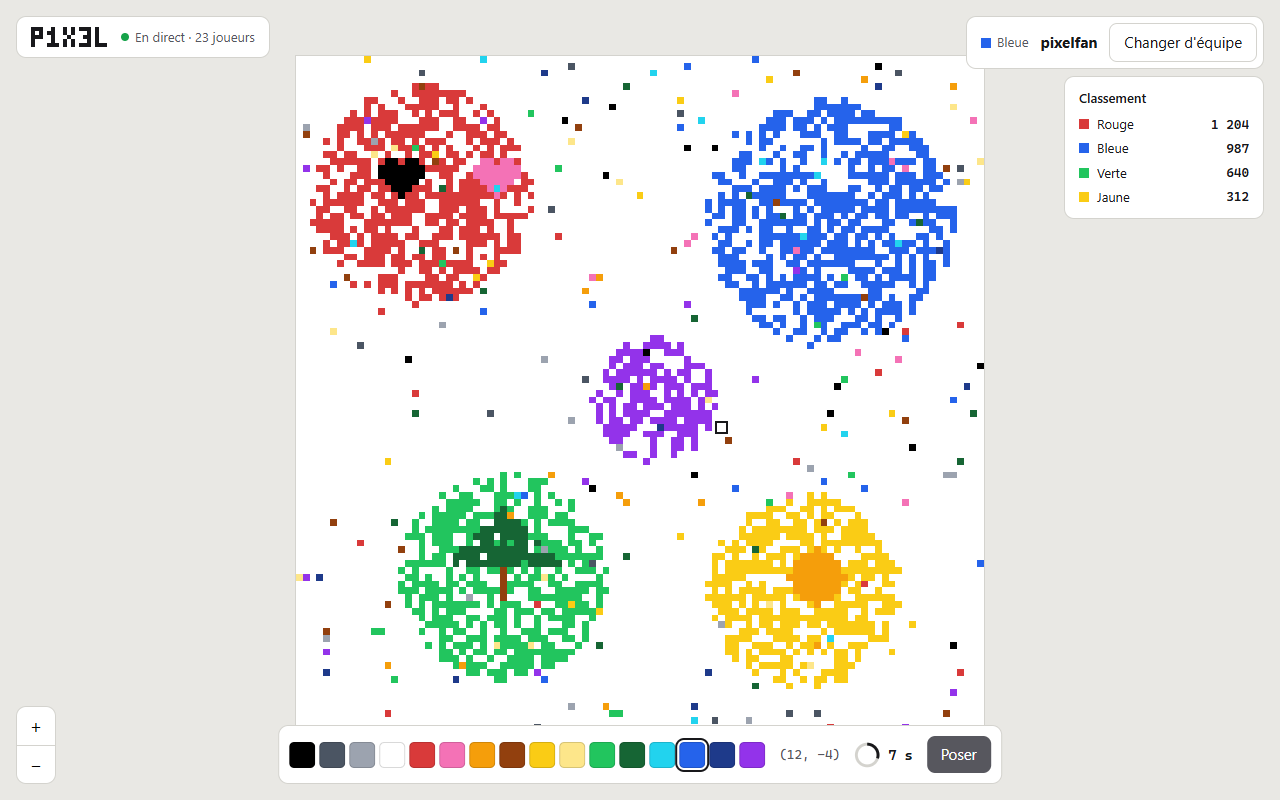
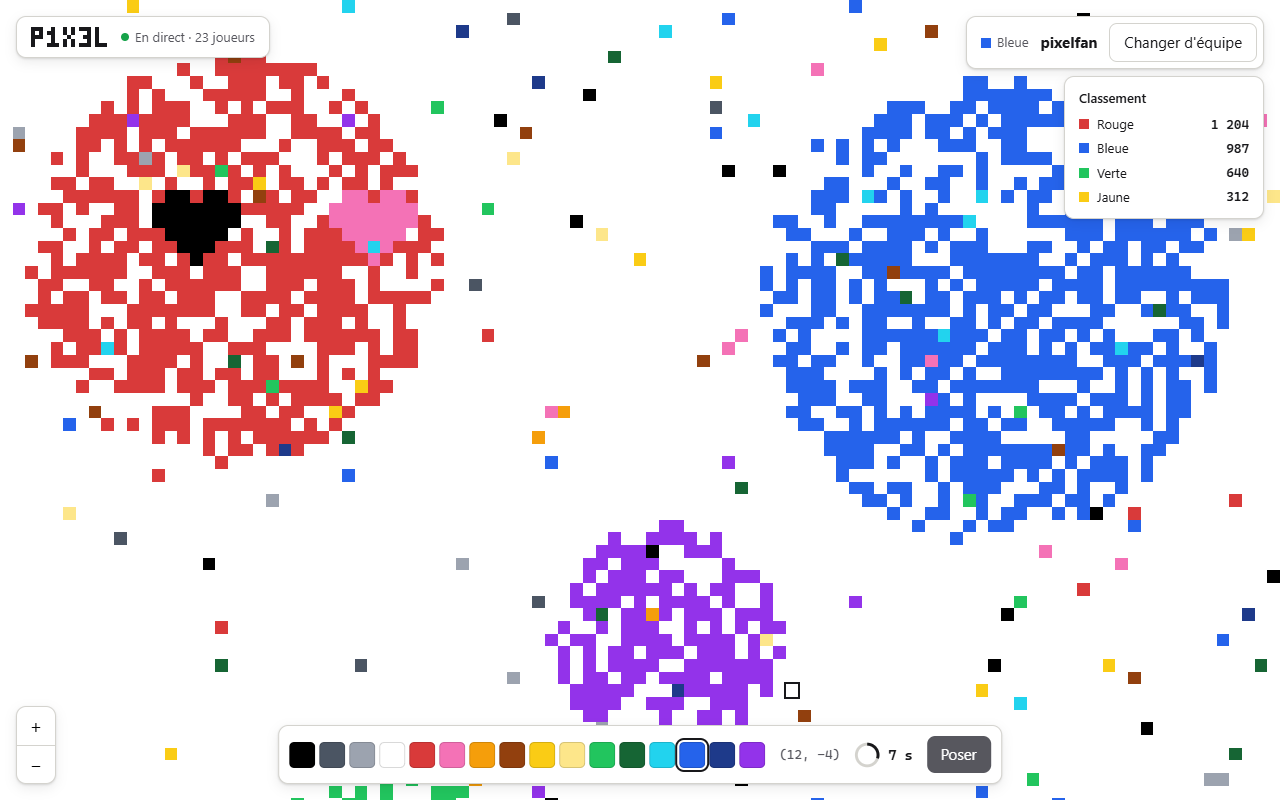
docs(front): retenir la piste A avec la toile en plein écran
Refs #168

diff --git a/docs/design/2026-11-20-maquettes/a-toile-d-abord.html b/docs/design/2026-11-20-maquettes/a-toile-d-abord.html
@@ -13,6 +13,9 @@
     --trait: #D4D3CE;
     --accent: #2563EB;
     --rayon: 10px;
+    --ecart: 16px;
+    /* Une seule ombre, réservée au HUD : elle le détache d'une toile chargée. */
+    --ombre: 0 1px 2px rgb(0 0 0 / .12), 0 4px 12px rgb(0 0 0 / .08);
     --police: system-ui, -apple-system, "Segoe UI", Roboto, sans-serif;
     --chiffres: ui-monospace, "Cascadia Mono", Consolas, monospace;
   }
@@ -20,23 +23,25 @@
   html, body { height: 100% }
   body { background: var(--fond); color: var(--encre); font: 15px/1.4 var(--police); overflow: hidden }
 
-  /* La toile occupe tout l'écran : l'interface flotte autour. */
-  .scene { position: fixed; inset: 0; display: grid; place-items: center }
-  .toile { width: min(86vh, 92vw); aspect-ratio: 1; image-rendering: pixelated; background: #fff; outline: 1px solid var(--trait) }
-  .viseur { position: absolute; width: calc(min(86vh, 92vw) / 101); aspect-ratio: 1; outline: 2px solid var(--encre); outline-offset: 1px;
-    left: calc(50% + 12 * min(86vh, 92vw) / 101 - min(86vh, 92vw) / 202); top: calc(50% + 4 * min(86vh, 92vw) / 101 - min(86vh, 92vw) / 202) }
+  /* La toile couvre tout l'écran, comme si on avait zoomé : elle déborde sur le côté le plus court.
+     Le HUD se pose par-dessus. Le zoom et le déplacement (#36) permettront d'en voir le reste. */
+  .scene { position: fixed; inset: 0; overflow: hidden; display: grid; place-items: center }
+  .plateau { position: relative; width: max(100vw, 100vh); aspect-ratio: 1; flex: none }
+  .toile { width: 100%; height: 100%; display: block; image-rendering: pixelated; background: #fff }
+  .viseur { position: absolute; width: calc(100% / 101); aspect-ratio: 1; left: calc(62 / 101 * 100%); top: calc(54 / 101 * 100%);
+    outline: 2px solid var(--encre); box-shadow: 0 0 0 4px #fff }
 
-  .flottant { position: fixed; background: var(--surface); border: 1px solid var(--trait); border-radius: var(--rayon) }
-  .haut-gauche { top: 16px; left: 16px; padding: 10px 14px; display: flex; gap: 14px; align-items: center }
+  .hud { position: fixed; background: var(--surface); border: 1px solid var(--trait); border-radius: var(--rayon); box-shadow: var(--ombre) }
+  .haut-gauche { top: var(--ecart); left: var(--ecart); padding: 10px 14px; display: flex; gap: 14px; align-items: center }
   .direct { font-size: 13px; color: var(--encre-douce); display: flex; gap: 6px; align-items: center }
   .direct::before { content: ""; width: 8px; height: 8px; border-radius: 50%; background: #16A34A }
-  .haut-droite { top: 16px; right: 16px; padding: 6px 6px 6px 14px; display: flex; gap: 12px; align-items: center }
+  .haut-droite { top: var(--ecart); right: var(--ecart); padding: 6px 6px 6px 14px; display: flex; gap: 12px; align-items: center }
   .equipe { display: inline-flex; gap: 6px; align-items: center; font-size: 13px; color: var(--encre-douce) }
   .equipe i { width: 10px; height: 10px; background: var(--accent); display: inline-block }
   .bouton { font: inherit; border: 0; border-radius: 8px; padding: 8px 14px; background: var(--encre); color: #fff; cursor: pointer }
   .bouton.discret { background: transparent; color: var(--encre); border: 1px solid var(--trait) }
 
-  .podium { top: 76px; right: 16px; width: 200px; padding: 12px 14px }
+  .podium { top: 76px; right: var(--ecart); width: 200px; padding: 12px 14px }
   .podium h2 { font-size: 13px; font-weight: 600; margin-bottom: 8px }
   .podium ol { list-style: none; padding: 0; display: grid; gap: 6px; font-size: 13px }
   .podium li { display: grid; grid-template-columns: 10px 1fr auto; gap: 8px; align-items: center }
@@ -44,7 +49,7 @@
   .podium b { font: 500 13px var(--chiffres) }
 
   /* Le dock : tout ce qui sert à poser, au même endroit. */
-  .dock { bottom: 16px; left: 50%; translate: -50% 0; padding: 10px; display: flex; gap: 14px; align-items: center }
+  .dock { bottom: var(--ecart); left: 50%; translate: -50% 0; padding: 10px; display: flex; gap: 14px; align-items: center }
   .palette { display: grid; grid-template-columns: repeat(16, 26px); gap: 4px }
   .nuance { width: 26px; height: 26px; border: 1px solid rgb(0 0 0 / .15); border-radius: 5px; background: var(--c); cursor: pointer; padding: 0 }
   .nuance[aria-pressed="true"] { outline: 2px solid var(--encre); outline-offset: 2px }
@@ -53,40 +58,40 @@
   .delai svg { width: 26px; height: 26px; rotate: -90deg }
   .poser { background: var(--encre-douce) }
 
-  .zoom { left: 16px; bottom: 16px; display: grid }
+  .zoom { left: var(--ecart); bottom: var(--ecart); display: grid; overflow: hidden }
   .zoom button { font: 18px var(--police); width: 38px; height: 38px; border: 0; background: none; cursor: pointer }
   .zoom button + button { border-top: 1px solid var(--trait) }
 
   @media (max-width: 760px) {
-    .toile, .viseur { --t: 96vw }
-    .toile { width: 96vw }
-    .viseur { width: calc(96vw / 101); left: calc(50% + 12 * 96vw / 101 - 96vw / 202); top: calc(50% + 4 * 96vw / 101 - 96vw / 202) }
+    :root { --ecart: 8px }
     .direct, .podium, .zoom, .equipe { display: none }
     .haut-gauche { padding: 10px }
-    .dock { left: 8px; right: 8px; bottom: 8px; translate: none; flex-wrap: wrap; justify-content: space-between }
+    .dock { left: var(--ecart); right: var(--ecart); translate: none; flex-wrap: wrap; justify-content: space-between }
     .palette { grid-template-columns: repeat(8, 1fr); width: 100% }
     .nuance { width: 100%; height: 34px }
   }
 </style>
 </head>
 <body>
-  <div class="scene" aria-hidden="true">
-    <canvas class="toile"></canvas>
-    <span class="viseur"></span>
+  <div class="scene">
+    <div class="plateau">
+      <canvas class="toile" aria-label="Toile partagée"></canvas>
+      <span class="viseur" aria-hidden="true"></span>
+    </div>
   </div>
 
-  <header class="flottant haut-gauche">
+  <header class="hud haut-gauche">
     <h1 id="logo"></h1>
     <span class="direct">En direct · 23 joueurs</span>
   </header>
 
-  <div class="flottant haut-droite">
+  <div class="hud haut-droite">
     <span class="equipe"><i></i>Bleue</span>
     <strong>pixelfan</strong>
     <button class="bouton discret" type="button">Changer d'équipe</button>
   </div>
 
-  <aside class="flottant podium" aria-labelledby="podium-titre">
+  <aside class="hud podium" aria-labelledby="podium-titre">
     <h2 id="podium-titre">Classement</h2>
     <ol>
       <li><i style="background:#D93A3A"></i>Rouge<b>1 204</b></li>
@@ -96,9 +101,9 @@
     </ol>
   </aside>
 
-  <div class="flottant zoom"><button type="button" aria-label="Zoomer">+</button><button type="button" aria-label="Dézoomer">−</button></div>
+  <div class="hud zoom"><button type="button" aria-label="Zoomer">+</button><button type="button" aria-label="Dézoomer">−</button></div>
 
-  <div class="flottant dock">
+  <div class="hud dock">
     <div class="palette" data-palette></div>
     <span class="coord">(12, −4)</span>
     <span class="delai" aria-label="Prochain pixel dans 7 secondes">

diff --git a/docs/design/2026-11-20-maquettes/README.md b/docs/design/2026-11-20-maquettes/README.md
@@ -54,15 +54,16 @@ Aucune de ces pages ne publie de règles de design : ce sont des observations, p
 - **Ce qu'elle apporte** : c'est la plus reconnaissable, celle qui ressemble le moins à un modèle tout fait.
 - **Ce qu'elle sacrifie** : le ton « affiche » fait moins jeu. Les titres en police à empattements (serif) demandent une police à choisir, et sur téléphone, il faut faire défiler pour poser.
 
-## Recommandation
+## Choix
 
-La piste **B**, avec le dock de A sur téléphone : la palette, le délai et le bouton Poser restent fixés en bas de l'écran.
+Le 20/11/2026, Lucas a choisi la piste **A**, avec un changement : la toile couvre tout l'écran, et le HUD (logo, joueur, classement, zoom, dock) flotte par-dessus. La maquette A montre cette version. La toile déborde sur le côté le plus court de l'écran : le zoom et le déplacement (#36) permettront d'en voir le reste.
 
-B est la seule qui montre tout le jeu sans fenêtre de plus : le délai, les équipes, le classement et l'agent. Pour la démo, c'est ce qui prouve que le front et le back se parlent en temps réel. On peut aussi y reprendre le délai en cases de C.
+La recommandation de départ était la piste B, pour sa place donnée au classement et à l'agent. Dans A, il faudra donc trouver où mettre l'agent de dessin.
 
 ## Ce qui reste à décider
 
-- La piste, ou un mélange.
+- La taille de la toile. Le code utilise 101 × 101, proposé dans [docs/contrat-api.md](../../contrat-api.md), mais [docs/besoin.md](../../besoin.md) la note encore « À décider ».
+- La place de l'agent de dessin dans le HUD.
 - Les polices : les maquettes utilisent celles du système pour ne rien charger depuis un autre site. Une police à nous devra être servie par notre propre serveur.
 - Le thème clair ou sombre, et s'il faut les deux.
 - Les couleurs de l'interface. La palette du jeu ne change pas : elle est décidée dans [docs/besoin.md](../../besoin.md).
